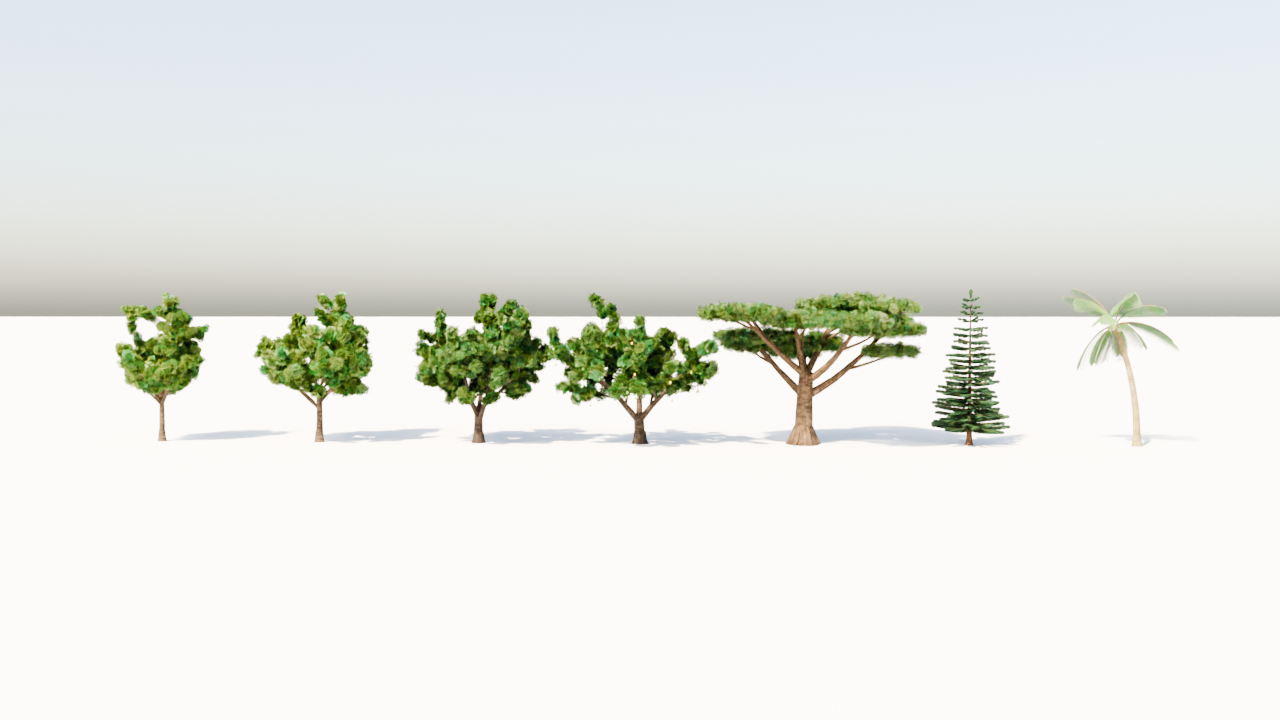
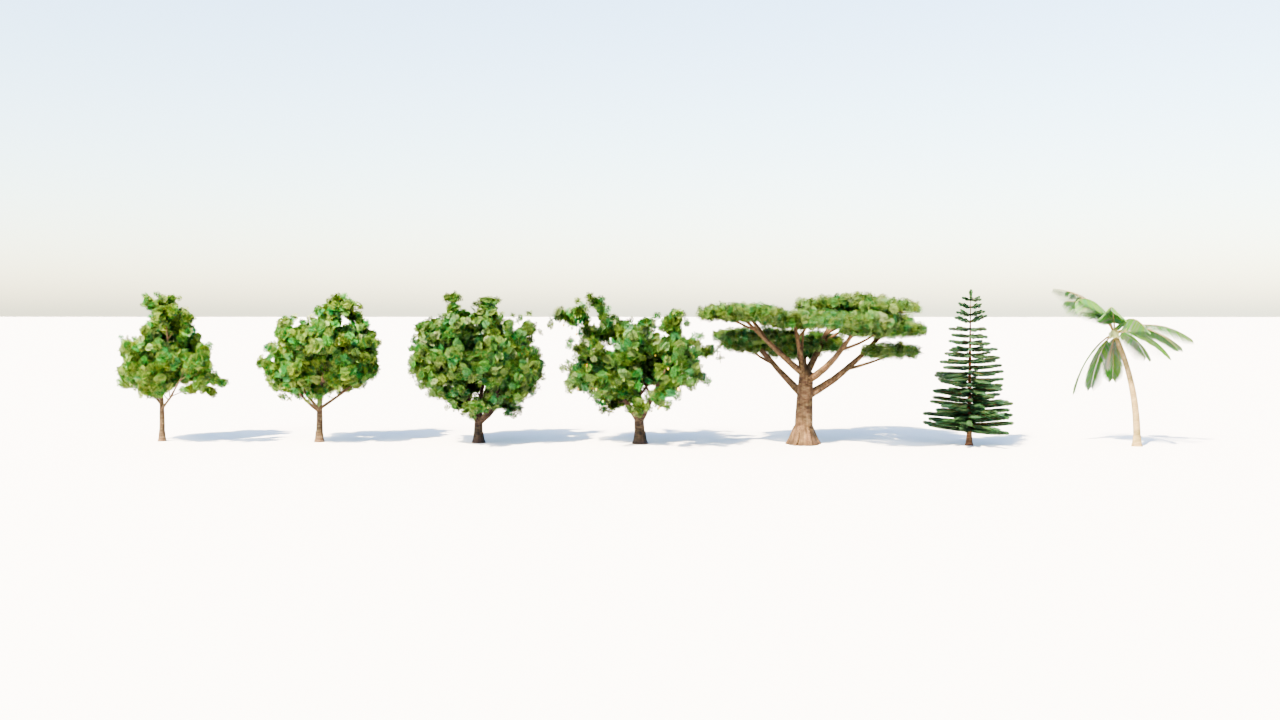
Future-city material tuning, urban terrain, road-snapped vehicles; scene 02 final-look still

Changed region(s): [[0.0, 0.3667, 1.0, 0.6417], [0.5, 0.5806, 0.5625, 0.6417]]

diff --git a/POSTA_2040/scripts/city_generation/place_trees.py b/POSTA_2040/scripts/city_generation/place_trees.py
@@ -1,0 +1,156 @@
+"""Instance the realistic tree kit (blender/assets/trees.blend) at the real tree positions of the Posta map.
+Reads assets/city/original_map/Instances/Tile_X*_Y0.trees.json -> blender/city_trees.blend with collection CITY_TREES_REAL
+(collection-instance empties, one per tree, scaled so the tree height matches json 'height', random Z rotation) plus the
+appended TREE_* kit collections (kept under the excluded 'TREE_SOURCES' collection).
+
+Axis verification (see verify in __main__ output): json (x, y, z) == Blender (x east, y north, z up) of CITY_TREE in city_base.blend
+(median XY distance to the nearest low-poly tree vertex 3.5 mm). json 'z' is the canopy centre (terrain + ~0.74*height), so the
+instance base is taken from the terrain (P.ground_z), falling back to z - 0.74*height.
+Run: /opt/blender/blender -b --python place_trees.py [-- --preview]
+"""
+import bpy, json, os, sys, math, random, time
+import numpy as np
+from mathutils import Vector
+
+HERE = os.path.dirname(os.path.abspath(__file__))
+ROOT = os.path.abspath(os.path.join(HERE, '..', '..'))
+sys.path.insert(0, os.path.join(ROOT, 'scripts', 'common'))
+import posta_lib as P   # noqa: E402
+import tree_lib as T    # noqa: E402
+
+INST = os.path.join(ROOT, 'assets', 'city', 'original_map', 'Instances')
+TILES = ['Tile_X0_Y0.trees.json', 'Tile_X1_Y0.trees.json']
+OUT = os.path.join(ROOT, 'blender', 'city_trees.blend')
+NOMINAL_H = T.NOMINAL_H
+MIN_H = 4.0
+
+BROADLEAF_MIX = [('BROADLEAF_A', 0.28), ('BROADLEAF_B', 0.24), ('MANGO', 0.2), ('MANGO_SPREAD', 0.14), ('UMBRELLA', 0.14)]
+POPLAR_MIX = [('BROADLEAF_A', 0.6), ('CONIFER', 0.15), ('PALM', 0.25)]   # 'poplar' in OSM here is mostly tall street trees; in Dar they are palms/columnar
+BUSH_MIX = [('MANGO_SPREAD', 0.5), ('BROADLEAF_B', 0.5)]
+
+def pick(rng, mix):
+    r = rng.random() * sum(w for _, w in mix)
+    for name, w in mix:
+        r -= w
+        if r <= 0: return name
+    return mix[-1][0]
+
+def is_coastal(x, y, ground):
+    return (y < 80 and x > -100) or ground < 8.0
+
+def choose_species(rng, t, ground):
+    sp = t.get('species', 'broadleaf')
+    if is_coastal(t['x'], t['y'], ground) and rng.random() < 0.4:
+        return 'PALM'
+    if sp == 'conifer': return 'CONIFER'
+    if sp == 'palm': return 'PALM'
+    if sp == 'poplar': return pick(rng, POPLAR_MIX)
+    if sp == 'bush': return pick(rng, BUSH_MIX)
+    return pick(rng, BROADLEAF_MIX)
+
+def verify_axes():
+    """Compare json positions with CITY_TREE vertices (both should be x east / y north / z up)."""
+    with bpy.data.libraries.load(os.path.join(ROOT, 'blender', 'city_base.blend'), link=False) as (src, dst):
+        dst.objects = ['CITY_TREE']
+    o = dst.objects[0]; me = o.data
+    co = np.empty(len(me.vertices) * 3); me.vertices.foreach_get('co', co); co = co.reshape(-1, 3)
+    trees = load_trees()
+    Pm = np.array([[t['x'], t['y'], t['z']] for t in trees])
+    def score(Q):
+        return float(np.median([np.hypot(co[:, 0] - q[0], co[:, 1] - q[1]).min() for q in Q[::25]]))
+    res = {'(x,y)': score(Pm), '(x,-y)': score(Pm * [1, -1, 1]), '(-x,y)': score(Pm * [-1, 1, 1]), '(y,x)': score(Pm[:, [1, 0, 2]]), '(x,z)': score(Pm[:, [0, 2, 1]])}
+    print('AXIS CHECK median XY distance json->CITY_TREE verts (m):', res)
+    for t in trees[:3]:
+        d = np.hypot(co[:, 0] - t['x'], co[:, 1] - t['y']); i = d.argmin()
+        print('  json', (t['x'], t['y'], t['z']), 'nearest low-poly vert', tuple(round(float(v), 2) for v in co[i]), 'dxy', round(float(d[i]), 3))
+    bpy.data.objects.remove(o)
+    best = min(res, key=res.get)
+    assert best == '(x,y)', f'unexpected axis mapping {best}'
+    return res
+
+def load_trees():
+    trees = []
+    for tile in TILES:
+        p = os.path.join(INST, tile)
+        if os.path.exists(p): trees += json.load(open(p))['trees']
+    return trees
+
+def place(seed=7):
+    rng = random.Random(seed)
+    bpy.ops.wm.read_factory_settings(use_empty=True)
+    sc = bpy.context.scene; sc.unit_settings.system = 'METRIC'
+    # terrain for ground heights
+    P.link_city(names=('CITY_TERRAIN', 'CITY_ROAD'))
+    kits = T.load_tree_kits()
+    src_col = bpy.data.collections.new('TREE_SOURCES'); sc.collection.children.link(src_col)
+    for name, col in kits.items():
+        if col is None: raise RuntimeError(f'missing kit TREE_{name}; run scripts/assets/build_trees.py first')
+        src_col.children.link(col)
+    inst_col = bpy.data.collections.new('CITY_TREES_REAL'); sc.collection.children.link(inst_col)
+    trees = load_trees(); counts = {}
+    for i, t in enumerate(trees):
+        g = P.ground_z(t['x'], t['y'], default=None)
+        if g is None: g = t['z'] - 0.74 * t['height']
+        # guard against json z wildly disagreeing with the terrain (bridge / data glitch): trust json then
+        if abs((t['z'] - 0.74 * t['height']) - g) > 6.0: g = t['z'] - 0.74 * t['height']
+        name = choose_species(rng, t, g); counts[name] = counts.get(name, 0) + 1
+        h = max(float(t.get('height', 10.0)), MIN_H)
+        e = bpy.data.objects.new(f'TREE_{i:04d}_{name}', None)
+        e.instance_type = 'COLLECTION'; e.instance_collection = kits[name]
+        e.empty_display_type = 'PLAIN_AXES'; e.empty_display_size = 0.5
+        e.location = (t['x'], t['y'], g - 0.03)
+        s = h / NOMINAL_H
+        e.scale = (s * rng.uniform(0.92, 1.08), s * rng.uniform(0.92, 1.08), s)
+        e.rotation_euler = (0, 0, rng.uniform(0, 2 * math.pi))
+        e['species'] = t.get('species', ''); e['shade'] = float(t.get('shade', 0.5)); e['kit'] = name
+        inst_col.objects.link(e)
+    # source kits must not render by themselves
+    src_col.hide_render = True
+    vl = sc.view_layers[0]
+    def excl(layer_col):
+        for lc in layer_col.children:
+            if lc.collection is src_col: lc.exclude = True
+            excl(lc)
+    excl(vl.layer_collection)
+    # drop the city geometry again; the blend only holds trees
+    for n in ('CITY_TERRAIN', 'CITY_ROAD'):
+        o = bpy.data.objects.get(n)
+        if o: bpy.data.objects.remove(o)
+    city = bpy.data.collections.get('CITY')
+    if city: bpy.data.collections.remove(city)
+    bpy.ops.outliner.orphans_purge(do_recursive=True) if hasattr(bpy.ops.outliner, 'orphans_purge') else None
+    for im in bpy.data.images:
+        if not im.packed_file:
+            try: im.pack()
+            except Exception: pass
+    bpy.ops.wm.save_as_mainfile(filepath=OUT, compress=True)
+    print(f'placed {len(trees)} trees -> {OUT}; species counts {counts}')
+    return counts
+
+def preview_city(out=os.path.join(ROOT, 'previews', 'asset_trees_in_city.png'), spot=(-172, 150), samples=48):
+    bpy.ops.wm.read_factory_settings(use_empty=True)
+    sc = bpy.context.scene
+    objs = P.link_city(); P.city_materials(objs, 'real')
+    T.load_real_trees(hide_lowpoly=True)
+    T.remove_lowpoly_trees()
+    P.setup_world(sun_rot=(math.radians(55), 0, math.radians(-50)), sun_energy=4.0, sky=True, sky_strength=0.8, turbidity=1.5, sun_elev=50, sun_az=230)
+    P.setup_render((1280, 720), samples=samples, out=out)
+    T.set_tree_lod(max_bounces=16)
+    x, y = spot; gz = P.ground_z(x, y)
+    # look from a few metres away toward the tree-rich spot
+    trees = T.trees_in_box(x - 60, x + 60, y - 60, y + 60)
+    print('trees within 60 m of spot:', len(trees))
+    cx, cy = x + 28, y - 34
+    cz = P.ground_z(cx, cy) + 1.7
+    P.add_camera('CAM_city', loc=(cx, cy, cz), target=(x, y, gz + 5.0), lens=28)
+    bpy.ops.render.render(write_still=True); print('rendered', out)
+
+if __name__ == '__main__':
+    argv = sys.argv[sys.argv.index('--') + 1:] if '--' in sys.argv else []
+    t0 = time.time()
+    verify_axes()
+    place()
+    print('placement done in', round(time.time() - t0, 1), 's')
+    if '--preview' in argv:
+        smp = int(argv[argv.index('--samples') + 1]) if '--samples' in argv else 48
+        preview_city(samples=smp)

diff --git a/POSTA_2040/scripts/assets/build_trees.py b/POSTA_2040/scripts/assets/build_trees.py
@@ -314,14 +314,14 @@ def L(segs, ring, taper, jitter, gravity, photo, children, child_start, child_an
 
 SPECIES_PARAMS = {
     # columnar / oval broadleaf (lineup, 2nd-4th trees): straight trunk, canopy 2.8..10 m, oval
-    'BROADLEAF_A': dict(seed=101, trunk_len=4.2, trunk_r=0.2, levels=4, leaf_level=2, env=(6.6, 2.7, 3.7), cards_per_m=14, card_size=0.6, card_tilt=0.7, tip_cards=5, tip_r=0.7,
+    'BROADLEAF_A': dict(seed=101, trunk_len=4.2, trunk_r=0.2, levels=4, leaf_level=2, env=(6.6, 2.7, 3.7), cards_per_m=16, card_size=0.52, card_tilt=0.7, tip_cards=7, tip_r=0.7,
         leaf_tex='leaves_broad.png', bark_tex='bark_broad.png', bark_tint=(0.75, 0.72, 0.68, 1),
         level=[L(7, 12, 0.55, 0.05, 0.0, 0.3, (9, 12), 0.5, (35, 60), (0.75, 1.05), 0.6),
                L(5, 8, 0.4, 0.14, -0.02, 0.25, (5, 7), 0.3, (30, 55), (0.55, 0.8), 0.6),
                L(4, 5, 0.35, 0.22, -0.05, 0.12, (4, 6), 0.25, (30, 60), (0.5, 0.75), 0.55),
                L(3, 4, 0.3, 0.3, -0.08, 0.0, (0, 0), 0.3, (30, 60), (0.5, 0.7), 0.5)]),
     # rounder spreading broadleaf (lineup 1st / 5th tree): lower fork, broad crown
-    'BROADLEAF_B': dict(seed=202, trunk_len=3.2, trunk_r=0.23, levels=4, leaf_level=2, env=(6.4, 3.7, 3.5), cards_per_m=13, card_size=0.65, card_tilt=0.7, tip_cards=5, tip_r=0.75,
+    'BROADLEAF_B': dict(seed=202, trunk_len=3.2, trunk_r=0.23, levels=4, leaf_level=2, env=(6.4, 3.7, 3.5), cards_per_m=15, card_size=0.55, card_tilt=0.7, tip_cards=7, tip_r=0.75,
         leaf_tex='leaves_broad2.png', bark_tex='bark_broad.png', bark_tint=(0.7, 0.68, 0.66, 1),
         level=[L(6, 12, 0.6, 0.06, 0.0, 0.2, (7, 9), 0.55, (40, 70), (0.9, 1.3), 0.6),
                L(5, 8, 0.42, 0.14, -0.03, 0.3, (5, 7), 0.3, (30, 60), (0.55, 0.85), 0.6),
@@ -432,7 +432,7 @@ def build_conifer(tm, rng):
         tm.card(tip - Vector((0, 0, 0.1)), right, Vector((0, 0, 1)), 0.45, 0.7, rnd, anchor=0.5)
     return []
 
-def build_palm(tm, rng, fronds=14, H=8.2):
+def build_palm(tm, rng, fronds=16, H=8.2):
     """Coconut palm: curved ringed trunk, arching fronds built from a rib and many leaflet quads, coconuts."""
     lean = Vector((rng.uniform(-1, 1), rng.uniform(-1, 1), 0)).normalized()
     pts = []; radii = []; n = 14
@@ -451,17 +451,17 @@ def build_palm(tm, rng, fronds=14, H=8.2):
         roll += 2 * math.pi / fronds * rng.uniform(0.75, 1.25)
         # age: young fronds point up, old droop
         age = k / fronds
-        elev0 = math.radians(rng.uniform(55, 80) - 85 * (age ** 1.3))
+        elev0 = math.radians(rng.uniform(50, 75) - 95 * (age ** 1.1))
         d = Vector((math.cos(roll) * math.cos(elev0), math.sin(roll) * math.cos(elev0), math.sin(elev0)))
         Lf = rng.uniform(5.0, 6.0)
-        rib, rr = grow_branch(rng, crown_c, d, Lf, 0.07, 0.015, 8, 0.01, -0.16 if age < 0.85 else -0.22, 0.0)
+        rib, rr = grow_branch(rng, crown_c, d, Lf, 0.07, 0.015, 8, 0.01, -0.14 if age < 0.85 else -0.2, 0.0)
         tm.tube(rib, rr, seg=5)
         # leaflets
         nl = 40
         for i in range(nl):
             t = 0.22 + 0.78 * (i / nl)
             qp, qd, qr = point_on(rib, rr, t)
-            llen = (1.25 * math.sin(math.pi * min(1, (t - 0.15) / 0.9)) ** 0.5 + 0.2) * (1 - 0.45 * max(0, t - 0.75) / 0.25)
+            llen = (1.45 * math.sin(math.pi * min(1, (t - 0.15) / 0.9)) ** 0.5 + 0.2) * (1 - 0.45 * max(0, t - 0.75) / 0.25)
             for side in (-1, 1):
                 sidev = qd.cross(Vector((0, 0, 1))).normalized() * side
                 # leaflet dir: forward along rib, outward to the side, drooping
@@ -471,7 +471,7 @@ def build_palm(tm, rng, fronds=14, H=8.2):
                 rnd = (rng.random(), rng.random() * 0.5 + 0.3, 0.5)
                 c = qp + ld * llen * 0.5 + sidev * 0.02
                 # quad: along ld (u = 0..1 along blade), width across
-                w = 0.11 + 0.04 * (1 - t)
+                w = 0.14 + 0.05 * (1 - t)
                 bm = tm.leaf
                 a0 = qp + sidev * 0.02; a1 = a0 + ld * llen
                 perp = ld.cross(right).normalized() * (w / 2)
@@ -516,7 +516,7 @@ def add_fruit(tm, rng, branches, n, hang=False):
         tm.sphere(c, 0.075, rng.random(), scale=(0.85, 0.85, 1.2), subdiv=1)
 
 def palm_leaf_material():
-    m = leaf_material('MAT_PalmLeaflet', 'palm_leaflet.png', tint=(0.5, 0.66, 0.38, 1), translucency=0.3, rough=0.4, hue_var=0.04)
+    m = leaf_material('MAT_PalmLeaflet', 'palm_leaflet.png', tint=(0.36, 0.52, 0.27, 1), translucency=0.2, rough=0.45, hue_var=0.04)
     # dead fronds: leafrand R ~0.95 & G ~0.05 -> brown. Patch the hue node: use G channel as saturation driver
     nt = m.node_tree
     hsv = next(n for n in nt.nodes if n.type == 'HUE_SAT'); sep = next(n for n in nt.nodes if n.type == 'SEPARATE_COLOR')
@@ -606,13 +606,13 @@ def preview_lineup(out=os.path.join(PREVIEWS, 'asset_trees_lineup.png'), samples
     P.add_camera('CAM_lineup', loc=(4, -80, 8.5), target=(0, 0, 5.4), lens=35)
     bpy.ops.render.render(write_still=True); print('rendered', out)
 
-def preview_closeup(out=os.path.join(PREVIEWS, 'asset_tree_mango_closeup.png'), samples=48):
+def preview_closeup(out=os.path.join(PREVIEWS, 'asset_tree_mango_closeup.png'), samples=48, species='MANGO'):
     sc = bpy.context.scene
     for i, name in enumerate(SPECIES):
         for o in bpy.data.collections[f'TREE_{name}'].objects:
-            if o.parent is None: o.hide_render = name != 'MANGO'
-            for c in o.children_recursive: c.hide_render = name != 'MANGO'
-    root = bpy.data.objects['TREE_MANGO_ROOT']
+            if o.parent is None: o.hide_render = name != species
+            for c in o.children_recursive: c.hide_render = name != species
+    root = bpy.data.objects[f'TREE_{species}_ROOT']
     P.setup_world(sun_rot=(math.radians(55), 0, math.radians(-60)), sun_energy=3.5, sky=True, sky_strength=0.7, sun_elev=45, sun_az=200)
     P.setup_render((1280, 720), samples=samples, out=out)
     sc.cycles.transparent_max_bounces = 16
@@ -629,4 +629,6 @@ if __name__ == '__main__':
         if '--lineup' in argv or '--preview' in argv:
             bpy.data.objects.remove(bpy.data.objects['CAM_lineup'])
         preview_closeup(samples=smp)
+    if '--closeup-species' in argv:  # e.g. -- --closeup-species PALM /path/out.png
+        i = argv.index('--closeup-species'); preview_closeup(out=argv[i + 2], samples=smp, species=argv[i + 1])
     print('REPORT', rep)

diff --git a/POSTA_2040/scripts/common/scene_lib.py b/POSTA_2040/scripts/common/scene_lib.py
@@ -121,12 +121,12 @@ def road_lane_material():
     """2040 road: dark asphalt with pulsing turquoise guidance lines along the surface (procedural, noise-based)."""
     m = P.new_mat('MAT_Road2040', (0.03, 0.035, 0.045, 1), 0.3, 0.1); nt = m.node_tree; b = nt.nodes['Principled BSDF']
     tc = nt.nodes.new('ShaderNodeTexCoord'); wave = nt.nodes.new('ShaderNodeTexWave'); wave.wave_type = 'BANDS'; wave.bands_direction = 'DIAGONAL'
-    wave.inputs['Scale'].default_value = 0.25; wave.inputs['Distortion'].default_value = 0.0
+    wave.inputs['Scale'].default_value = 0.12; wave.inputs['Distortion'].default_value = 0.0
     nt.links.new(tc.outputs['Object'], wave.inputs['Vector'])
-    ramp = nt.nodes.new('ShaderNodeValToRGB'); ramp.color_ramp.elements[0].position = 0.93; ramp.color_ramp.elements[1].position = 0.97
+    ramp = nt.nodes.new('ShaderNodeValToRGB'); ramp.color_ramp.elements[0].position = 0.96; ramp.color_ramp.elements[1].position = 0.985
     nt.links.new(wave.outputs['Fac'], ramp.inputs[0])
     b.inputs['Emission Color'].default_value = P.PAL['turq']
-    mul = nt.nodes.new('ShaderNodeMath'); mul.operation = 'MULTIPLY'; mul.inputs[1].default_value = 2.5
+    mul = nt.nodes.new('ShaderNodeMath'); mul.operation = 'MULTIPLY'; mul.inputs[1].default_value = 0.9
     nt.links.new(ramp.outputs[0], mul.inputs[0]); nt.links.new(mul.outputs[0], b.inputs['Emission Strength'])
     return m
 
@@ -145,11 +145,11 @@ def facade_2040_material():
     noise = nt.nodes.new('ShaderNodeTexWhiteNoise'); noise.noise_dimensions = '3D'
     snap = nt.nodes.new('ShaderNodeVectorMath'); snap.operation = 'SNAP'; snap.inputs[1].default_value = (2.2 / 0.35 * 0.5, 2.2 / 0.35 * 0.5, 1.0 / 0.35)
     nt.links.new(tc.outputs['Object'], snap.inputs[0]); nt.links.new(snap.outputs[0], noise.inputs['Vector'])
-    gt = nt.nodes.new('ShaderNodeMath'); gt.operation = 'GREATER_THAN'; gt.inputs[1].default_value = 0.72
+    gt = nt.nodes.new('ShaderNodeMath'); gt.operation = 'GREATER_THAN'; gt.inputs[1].default_value = 0.85
     nt.links.new(noise.outputs['Value'], gt.inputs[0])
     isw = nt.nodes.new('ShaderNodeMath'); isw.operation = 'LESS_THAN'; isw.inputs[1].default_value = 0.5; nt.links.new(brick.outputs['Fac'], isw.inputs[0])
     both = nt.nodes.new('ShaderNodeMath'); both.operation = 'MULTIPLY'; nt.links.new(gt.outputs[0], both.inputs[0]); nt.links.new(isw.outputs[0], both.inputs[1])
-    es = nt.nodes.new('ShaderNodeMath'); es.operation = 'MULTIPLY'; es.inputs[1].default_value = 3.0; nt.links.new(both.outputs[0], es.inputs[0])
+    es = nt.nodes.new('ShaderNodeMath'); es.operation = 'MULTIPLY'; es.inputs[1].default_value = 0.6; nt.links.new(both.outputs[0], es.inputs[0])
     b.inputs['Emission Color'].default_value = (1.0, 0.75, 0.45, 1); nt.links.new(es.outputs[0], b.inputs['Emission Strength'])
     return m
 
@@ -177,3 +177,18 @@ def enable_mist(start=200, depth=1500, color=(0.35, 0.5, 0.8, 1), strength=0.7):
     except Exception:
         glare.threshold = 1.2
     nt.links.new(mix.outputs[0], glare.inputs[0]); nt.links.new(glare.outputs[0], comp.inputs[0])
+
+def terrain_urban_material():
+    """Urban ground: concrete/paving mixed with grass patches by large-scale noise."""
+    m = P.new_mat('MAT_Terrain', (0.3, 0.3, 0.28, 1), 0.9); nt = m.node_tree; b = nt.nodes['Principled BSDF']
+    tc = nt.nodes.new('ShaderNodeTexCoord'); n1 = nt.nodes.new('ShaderNodeTexNoise'); n1.inputs['Scale'].default_value = 0.012; n1.inputs['Detail'].default_value = 4
+    nt.links.new(tc.outputs['Object'], n1.inputs['Vector'])
+    ramp = nt.nodes.new('ShaderNodeValToRGB'); ramp.color_ramp.elements[0].position = 0.42; ramp.color_ramp.elements[0].color = (0.33, 0.32, 0.3, 1)
+    ramp.color_ramp.elements[1].position = 0.58; ramp.color_ramp.elements[1].color = (0.07, 0.16, 0.05, 1)
+    nt.links.new(n1.outputs['Fac'], ramp.inputs[0]); nt.links.new(ramp.outputs[0], b.inputs['Base Color'])
+    return m
+
+def snap_to_road(x, y):
+    import numpy as np
+    o = bpy.data.objects['CITY_ROAD']; co = np.empty(len(o.data.vertices) * 3); o.data.vertices.foreach_get('co', co); co = co.reshape(-1, 3)
+    i = np.hypot(co[:, 0] - x, co[:, 1] - y).argmin(); return (float(co[i, 0]), float(co[i, 1]), float(co[i, 2]))

diff --git a/POSTA_2040/scripts/scenes/s06.py b/POSTA_2040/scripts/scenes/s06.py
@@ -9,7 +9,8 @@ def add_vehicles(F):
     if not os.path.exists(path): return
     col = S.link_asset('roadster.blend', 'ROADSTER')
     # cars gliding along Kivukoni Front (approx straight segment from (-60,60) to (260,-20)) and Azikiwe
-    routes = [((-60, 62), (270, -25)), ((250, -18), (-70, 70)), ((-135, 210), (-20, 60))]
+    routes = [((-20, 95), (180, 30)), ((170, 32), (-30, 97)), ((-135, 210), (-60, 110))]
+    routes = [(S.snap_to_road(*a)[:2], S.snap_to_road(*b)[:2]) for a, b in routes]
     for i, (a, b) in enumerate(routes):
         e = S.instance_collection(col, f'CAR_{i}', loc=(a[0], a[1], P.ground_z(*a) + 0.05))
         ang = math.atan2(b[1] - a[1], b[0] - a[0]) - math.pi / 2
@@ -22,7 +23,7 @@ def add_vehicles(F):
 def build(scn, quality):
     S.fresh(); F = scn['frames']
     objs = S.load_city('binary', crop=((50, 60), 900)); S.ocean_material_upgrade(dusk=False)
-    S.apply_future_materials(objs)
+    S.apply_future_materials(objs); S.terrain_urban_material()
     # the dissolving materials are replaced by future ones; binary modifier runs backwards so glyphs resolve into glass and steel
     b = objs['CITY_BUILDING']; mb = P.apply_binary(b, progress=1.0, density=0.15, size=1.4, noise_scale=0.02, seed=3, height_bias=0.5, band=0.15)
     S.key_progress(mb, [(1, 1.0), (int(F * 0.45), 0.0), (F, 0.0)]); S.drive_flow(mb, speed=0.8)
@@ -30,7 +31,7 @@ def build(scn, quality):
     S.key_progress(mr, [(1, 1.0), (int(F * 0.4), 0.0), (F, 0.0)]); S.drive_flow(mr, speed=2.0)
     add_vehicles(F)
     S.world_golden(strength=0.05, sun_elev=16, sun_az=265, sun_energy=2.6)
-    S.enable_mist(start=250, depth=2200, color=(0.85, 0.75, 0.62, 1), strength=0.55)
+    S.enable_mist(start=350, depth=2600, color=(0.85, 0.78, 0.68, 1), strength=0.3)
     cam = P.add_camera(loc=(-120, -120, 60), target=(-30, 100, 25), lens=35)
     S.cam_path(cam, [(1, (-120, -120, 60)), (F, (220, -160, 90))], [(1, (-30, 100, 25)), (F, (60, 90, 20))])
     P.setup_render(samples=28, frame_end=F); S.frame_range(scn)

diff --git a/POSTA_2040/scripts/scenes/s10.py b/POSTA_2040/scripts/scenes/s10.py
@@ -6,9 +6,9 @@ import posta_lib as P, scene_lib as S
 
 def build(scn, quality):
     S.fresh(); F = scn['frames']; fps = 24
-    objs = S.load_city('future'); S.ocean_material_upgrade(dusk=False); S.apply_future_materials(objs)
+    objs = S.load_city('future'); S.ocean_material_upgrade(dusk=False); S.apply_future_materials(objs); S.terrain_urban_material()
     S.world_golden(strength=0.06, sun_elev=20, sun_az=262, sun_energy=2.8)
-    S.enable_mist(start=300, depth=3000, color=(0.86, 0.78, 0.66, 1), strength=0.45)
+    S.enable_mist(start=300, depth=3000, color=(0.86, 0.78, 0.66, 1), strength=0.3)
     S.link_asset('helicopter.blend', 'HELICOPTER'); heli = bpy.data.objects['HELI_ROOT']
     H = 262.0; heli.location = (260, -210, H); heli.rotation_euler = (0, 0, math.atan2(490, -340) - math.pi / 2)
     rot = bpy.data.objects['ROTOR_MAIN']; rot.rotation_euler = (0, 0, 0); rot.keyframe_insert('rotation_euler', frame=1)

diff --git a/POSTA_2040/scripts/scenes/s09.py b/POSTA_2040/scripts/scenes/s09.py
@@ -6,9 +6,9 @@ import posta_lib as P, scene_lib as S
 
 def build(scn, quality):
     S.fresh(); F = scn['frames']
-    objs = S.load_city('future'); S.ocean_material_upgrade(dusk=False); S.apply_future_materials(objs)
+    objs = S.load_city('future'); S.ocean_material_upgrade(dusk=False); S.apply_future_materials(objs); S.terrain_urban_material()
     S.world_golden(strength=0.05, sun_elev=18, sun_az=262, sun_energy=2.6)
-    S.enable_mist(start=300, depth=2600, color=(0.85, 0.76, 0.64, 1), strength=0.5)
+    S.enable_mist(start=300, depth=2600, color=(0.85, 0.76, 0.64, 1), strength=0.3)
     # continuity with scene 07/08: aerial, looking down on Kivukoni from the south-east over the harbour, slow drift
     cam = P.add_camera(loc=(650, -700, 420), target=(-100, 150, 20), lens=40)
     S.cam_path(cam, [(1, (650, -700, 420)), (F, (520, -620, 390))], [(1, (-100, 150, 20)), (F, (-60, 170, 30))])

diff --git a/POSTA_2040/scripts/scenes/s08.py b/POSTA_2040/scripts/scenes/s08.py
@@ -7,9 +7,9 @@ import posta_lib as P, scene_lib as S
 
 def build(scn, quality):
     S.fresh(); F = scn['frames']
-    objs = S.load_city('future'); S.ocean_material_upgrade(dusk=False); S.apply_future_materials(objs)
+    objs = S.load_city('future'); S.ocean_material_upgrade(dusk=False); S.apply_future_materials(objs); S.terrain_urban_material()
     S.world_golden(strength=0.06, sun_elev=20, sun_az=262, sun_energy=2.8)
-    S.enable_mist(start=400, depth=3000, color=(0.86, 0.78, 0.66, 1), strength=0.5)
+    S.enable_mist(start=400, depth=3000, color=(0.86, 0.78, 0.66, 1), strength=0.3)
     S.link_asset('helicopter.blend', 'HELICOPTER'); heli = bpy.data.objects['HELI_ROOT']
     heli.location = (260, -210, 262); heli.rotation_euler = (math.radians(-1), 0, math.atan2(-210 - (-700), 260 - 600) - math.pi / 2)
     # gentle hover bob

diff --git a/POSTA_2040/scripts/scenes/s07.py b/POSTA_2040/scripts/scenes/s07.py
@@ -35,9 +35,9 @@ def heli_path(F):
 
 def build(scn, quality):
     S.fresh(); F = scn['frames']
-    objs = S.load_city('future'); S.ocean_material_upgrade(dusk=False); S.apply_future_materials(objs)
+    objs = S.load_city('future'); S.ocean_material_upgrade(dusk=False); S.apply_future_materials(objs); S.terrain_urban_material()
     S.world_golden(strength=0.06, sun_elev=20, sun_az=262, sun_energy=2.8)
-    S.enable_mist(start=400, depth=3000, color=(0.86, 0.78, 0.66, 1), strength=0.5)
+    S.enable_mist(start=400, depth=3000, color=(0.86, 0.78, 0.66, 1), strength=0.3)
     heli = heli_path(F)
     # camera: from Kivukoni Front at 25 m straight up and back over the harbour, then swings to track the helicopter
     cam = P.add_camera(loc=(120, -40, 25), target=(-60, 120, 20), lens=32)

diff --git a/POSTA_2040/scripts/scenes/s02.py b/POSTA_2040/scripts/scenes/s02.py
@@ -22,7 +22,7 @@ def build(scn, quality):
     import math as _m
     ang = _m.atan2(ty - sy, tx - sx); d0 = 70.0
     c0 = (tx - _m.cos(ang) * d0, ty - _m.sin(ang) * d0, sz + 1.7); c1 = (tx - _m.cos(ang) * (d0 - 18), ty - _m.sin(ang) * (d0 - 18), sz + 4.0)
-    P.clear_trees_near([c0, c1, (sx, sy)], 28)
+    P.clear_trees_near([c0, c1, (sx, sy), (tx, ty)], 160)
     cam = P.add_camera(loc=c0, target=(tx, ty, sz + 8), lens=22, dof_target=45, fstop=5.6)
     S.cam_path(cam, [(1, c0), (F, c1)], [(1, (tx, ty, sz + 10)), (F, (tx, ty, th * 0.75))])
     P.setup_render(samples=28, motion_blur=False, frame_end=F)
